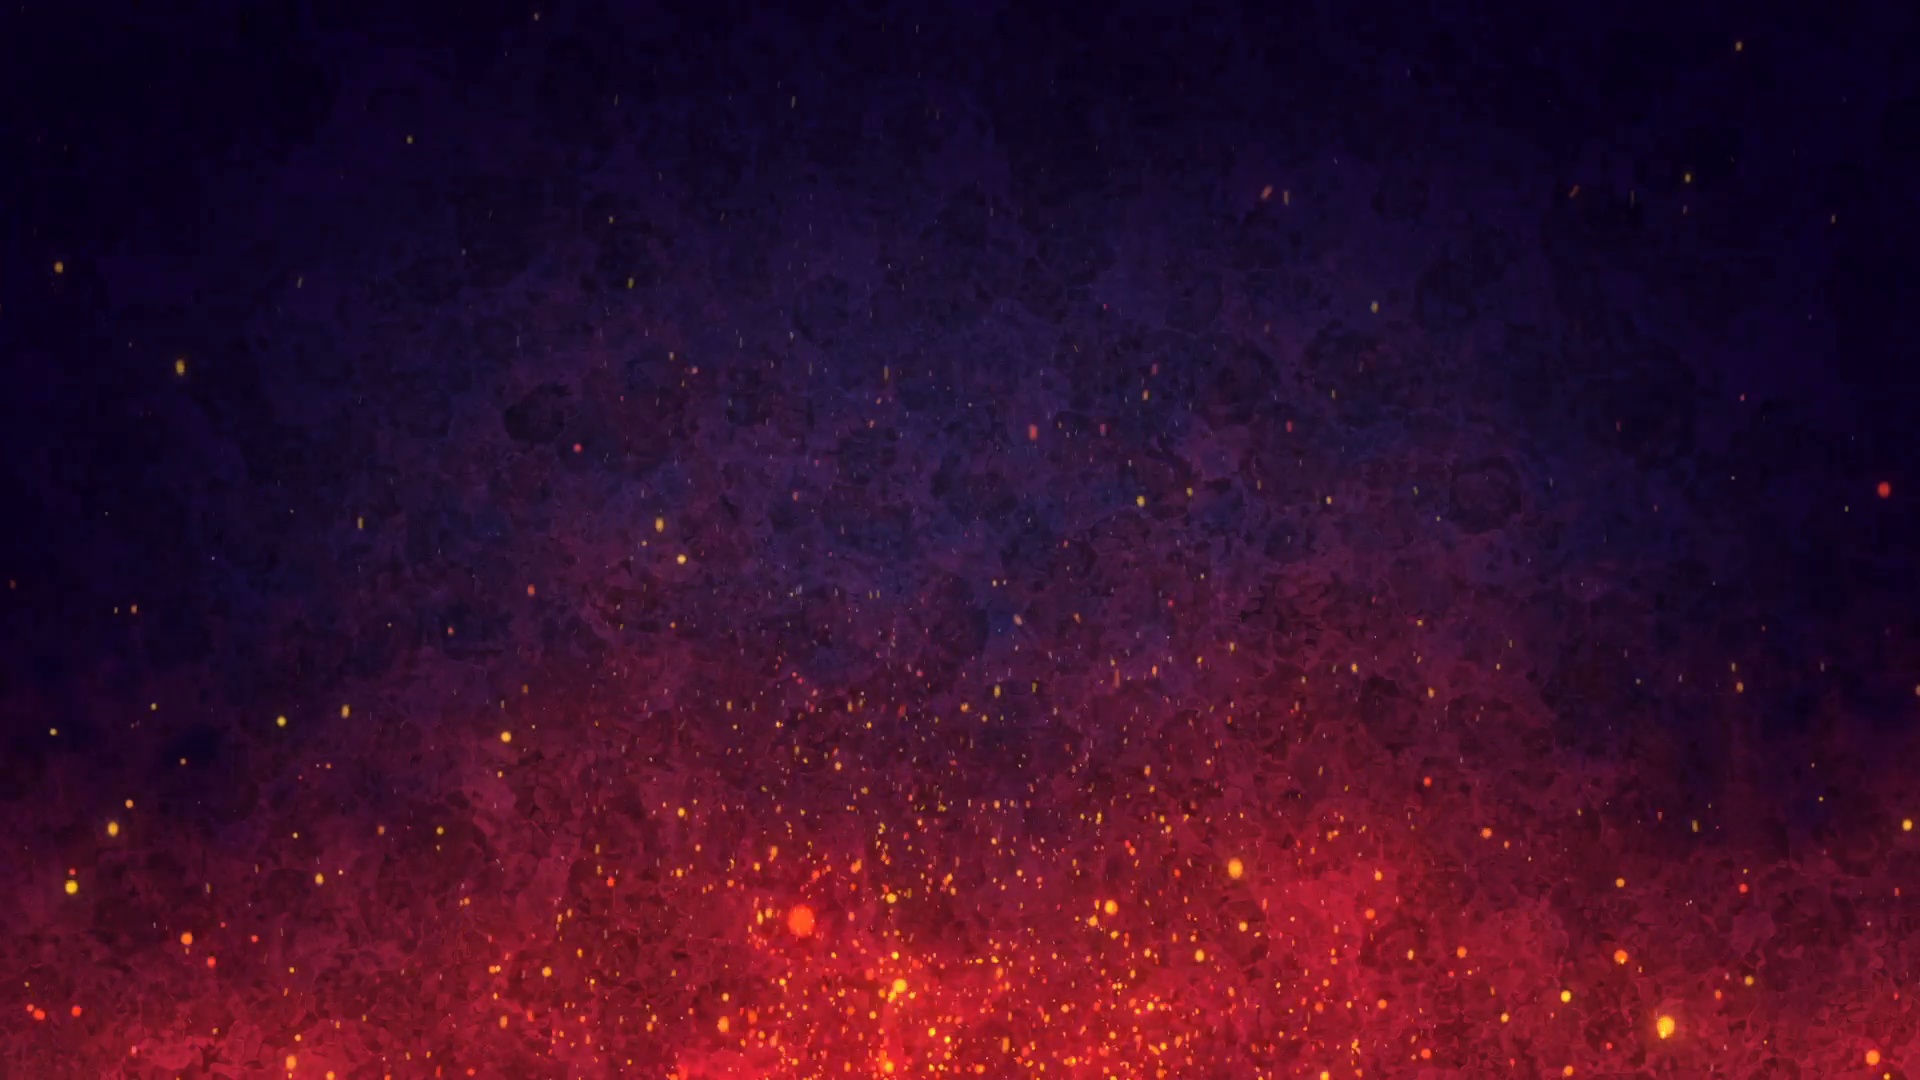
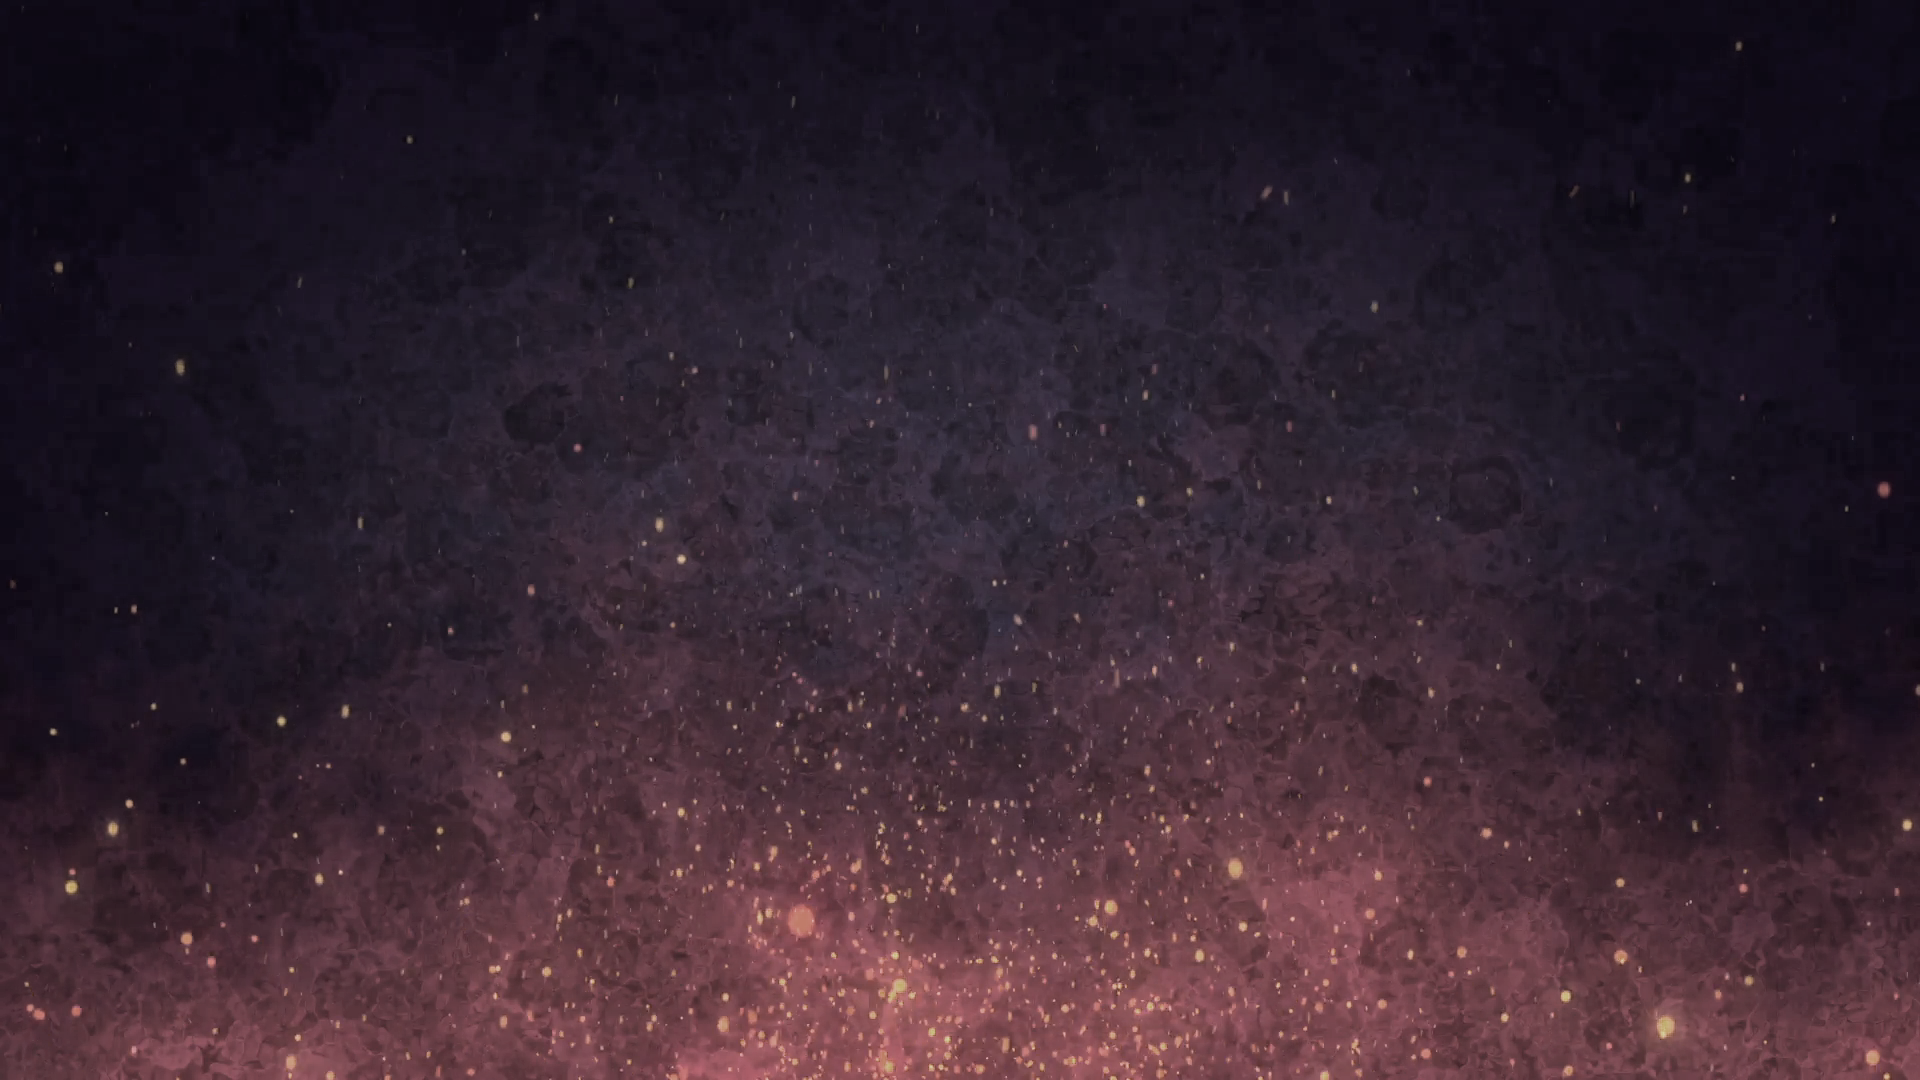
mudanças visuais

Changed region(s): [[0.0, 0.5194, 1.0, 1.0], [0.3125, 0.5194, 0.3438, 0.55]]

diff --git a/public/styles/site/_layout.scss b/public/styles/site/_layout.scss
@@ -1,18 +1,21 @@
 #header {
 	margin-top: 2px;
+	padding-bottom: 80px;
 }
 
-
+#body{
+	padding-bottom: 80px;
+}
 
 #footer {
-	margin-top: 10px;
-	border-top: 2px solid #ff7200;
-	padding-top: 10px;
-	padding-bottom: 20x;
-	padding-left: 1px;
-	padding-right: 1px;
+	padding-top: 5px;
+	border-top:  2px solid #ff7200;
 	color: #b1b1b1;
+	background-color: rgb(19, 18, 18);
+	height: 60px;
 }
+
+
 
 .gallery-image img{
     display: block;
@@ -401,14 +404,14 @@
 	  background-color: transparent; }
 
 
-	  body {
+	body {
 		font-family: "Helvetica Neue", Helvetica, Arial, sans-serif;
 		font-size: 14px;
 		line-height: 1.42857;
 		color: #333333;
 		background-color: black;
-		
+		background-image: url("../../images/fire2.png");
 		background-repeat: no-repeat;
-		background-size: auto;
+		background-size: cover;
 		background-attachment: fixed;
 	}

diff --git a/public/styles/site.css b/public/styles/site.css
@@ -5822,16 +5822,18 @@ button.close {
     display: none !important; } }
 
 #header {
-  margin-top: 2px; }
+  margin-top: 2px;
+  padding-bottom: 80px; }
+
+#body {
+  padding-bottom: 80px; }
 
 #footer {
-  margin-top: 10px;
+  padding-top: 5px;
   border-top: 2px solid #ff7200;
-  padding-top: 10px;
-  padding-bottom: 20x;
-  padding-left: 1px;
-  padding-right: 1px;
-  color: #b1b1b1; }
+  color: #b1b1b1;
+  background-color: #131212;
+  height: 60px; }
 
 .gallery-image img {
   display: block;
@@ -6126,6 +6128,7 @@ body {
   line-height: 1.42857;
   color: #333333;
   background-color: black;
+  background-image: url("../../images/fire2.png");
   background-repeat: no-repeat;
-  background-size: auto;
+  background-size: cover;
   background-attachment: fixed; }
